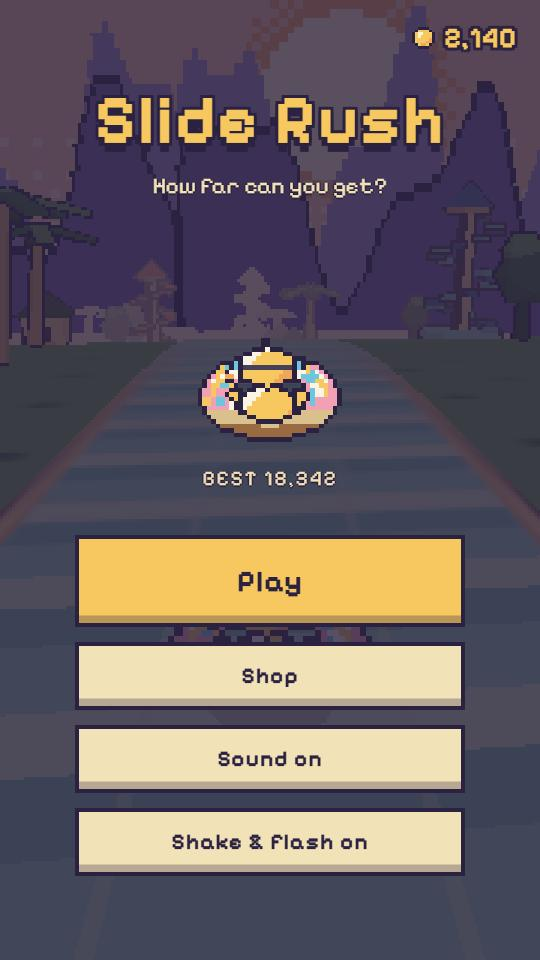
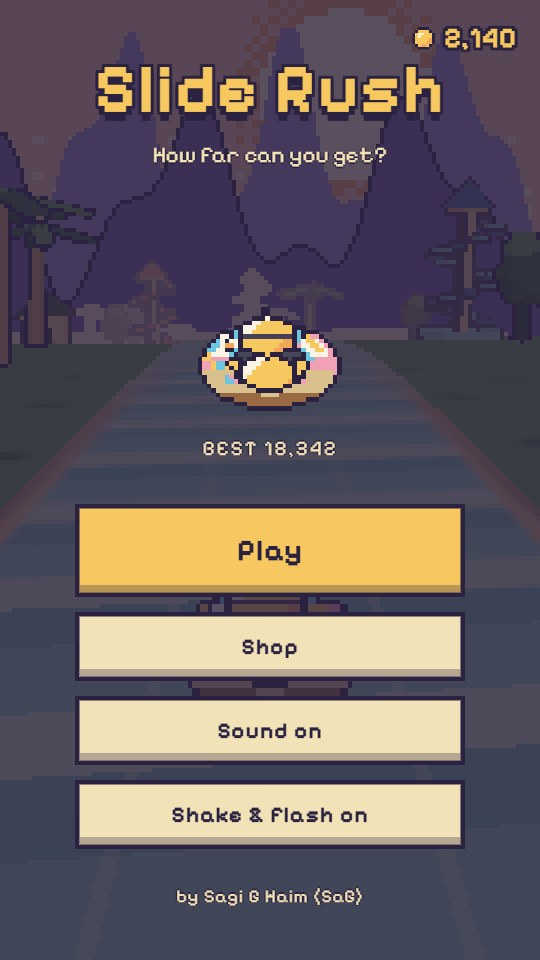
docs: retake title and play screenshots for the new hills and the credit

diff --git a/README.md b/README.md
@@ -6,7 +6,7 @@ An endless runner set on a water-park slide, in the spirit of Subway Surfers. Ri
 
 <p>
   <img src="docs/screenshots/title.jpg" alt="Title screen: a duck in a donut ring, under a pixel sunset" width="240" />
-  <img src="docs/screenshots/play.jpg" alt="Sliding past a stack of crates, with grass, palms and huts along the slide" width="240" />
+  <img src="docs/screenshots/play.jpg" alt="Riding toward an obstacle, with coins on the slide and pixel hills, trees and huts behind" width="240" />
   <img src="docs/screenshots/shop.jpg" alt="The shop: trying a toilet seat on the duck before buying it" width="240" />
 </p>
 
